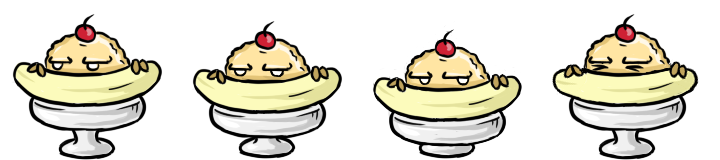
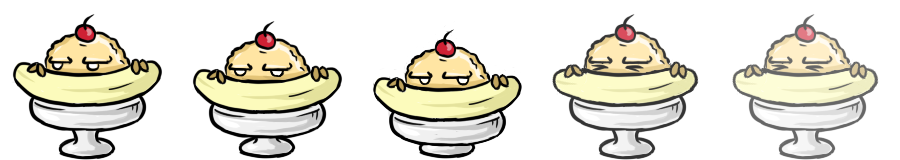
Add Envy

diff --git a/js/enemy.js b/js/enemy.js
@@ -23,6 +23,10 @@ var Enemy = function (game, key) {
         this.state = 'idle';
         this.timer = 0;
     }
+    else if (key == "envy") {
+        this.animations.add('idle', [0,1,2,1], 4, true);
+        this.animations.add('hurt', [3,4], 16, true);
+    }
     else {
         this.animations.add('idle', [0,1], 4, true);
         this.animations.add('hurt', [2,3], 16, true);

diff --git a/js/enemyHandler.js b/js/enemyHandler.js
@@ -13,6 +13,7 @@ EnemyHandler.IceCream = function (game) {
     // Max limit of 64 enemies
     for (var i = 0; i < 16; i++)
     {
+        this.add(new Enemy(game, 'envy'), true);
         this.add(new Enemy(game, 'gluttony'), true);
         this.add(new Enemy(game, 'pride'), true);
         this.add(new Enemy(game, 'wrath'), true);

diff --git a/js/main.js b/js/main.js
@@ -53,6 +53,7 @@ PhaserGame.prototype = {
         this.load.spritesheet('lust', 'img/lust.png', 160, 200);
         this.load.spritesheet('sloth', 'img/sloth.png', 195, 125);
         this.load.spritesheet('pride', 'img/pride.png', 160, 160);
+        this.load.spritesheet('envy', 'img/envy.png', 180, 160);
 
 
         // Particles
